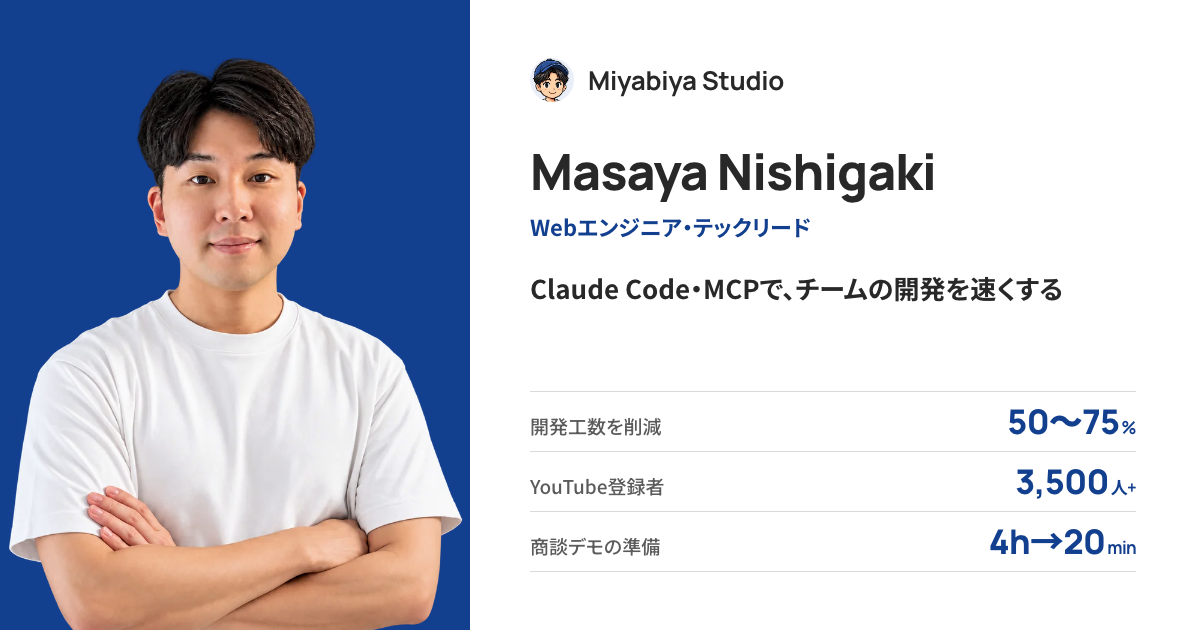
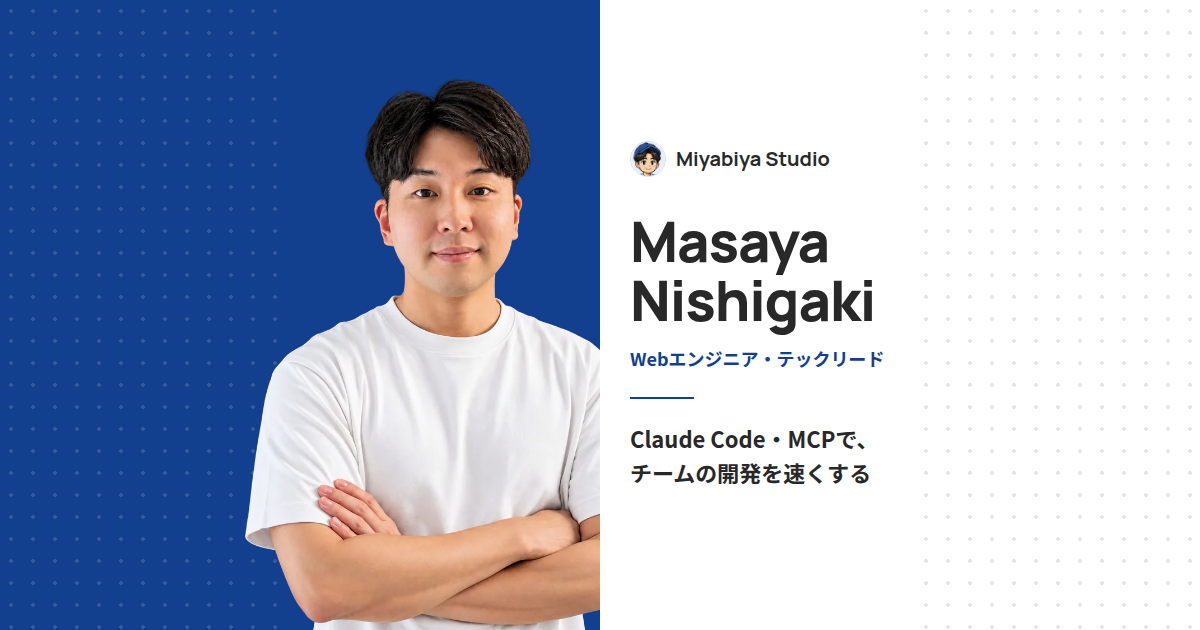
Keep the studio.msyn.me link preview readable at every crop
Link previews crop og-profile.png to their own frame (1.91:1, about 1.5:1
in narrow cards, square in compact ones), which cut the name and figures
on the right. Redraw the card-style image with the split at the center and
all text inside the centered 630x630 area, generate it from
canvas/v3/build_og.py with a check that fails when text leaves that area,
and publish it under a content-hashed name so cached previews refresh.

Claude-Session: https://claude.ai/code/session_015XLHNVSnmWFEdGQFirpeex

diff --git a/profile-site-comp/canvas/v3/build_og.py b/profile-site-comp/canvas/v3/build_og.py
@@ -1,0 +1,163 @@
+#!/usr/bin/env python3
+"""リンクを共有したときのプレビュー画像 (site/og-profile.png, 1200×630) を生成する。
+
+  python3 canvas/v3/build_og.py
+
+プレビュー画像は、表示先の枠に合わせて中央から切り抜かれる。X・Facebook は 1.91:1、
+チャットやノートアプリの細いカードは 1.5:1 前後、小さいカードは正方形になる。そのため
+文字はすべて中央の 630×630 (正方形に切り抜かれても残る範囲) に収め、左右の端には背景だけを置く。
+生成時に文字の位置を測り、範囲からはみ出したら止める。比率ごとの見え方は
+output/og-profile-crops.png に保存する。
+
+Google Chrome か Chromium と Pillow を使う (見つからないときは CHROME にパスを指定する)。
+生成した PNG は Git に含めるので、npm run build ではこのスクリプトを実行しない。
+"""
+import base64
+import json
+import os
+from pathlib import Path
+import re
+import shutil
+import subprocess
+import tempfile
+
+from fontTools.ttLib import TTFont
+from PIL import Image, ImageDraw
+
+HERE = Path(__file__).resolve().parent
+ROOT = HERE.parents[1]
+OUTPUT = ROOT / 'site/og-profile.png'
+CROPS = ROOT / 'output/og-profile-crops.png'
+W, H = 1200, 630
+# 正方形に切り抜かれても余白が残るよう、左右は 24px、上下は 2.2:1 まで切り詰められても残る範囲。
+SAFE = ((W - H) // 2 + 24, 48, (W + H) // 2 - 24, H - 48)
+
+BRAND = 'Miyabiya Studio'
+NAME = ('Masaya', 'Nishigaki')
+ROLE = 'Webエンジニア・テックリード'
+TAGLINE = ('Claude Code・MCPで、', 'チームの開発を速くする')
+JP_FONT = HERE / 'site-assets/studio-jp.woff2'
+SANS_FONT = HERE / 'site-assets/studio-sans.woff2'
+
+
+def data_uri(path, mime):
+    return f'data:{mime};base64,' + base64.b64encode(path.read_bytes()).decode()
+
+
+def page():
+    return f'''<!doctype html><html lang="ja"><head><meta charset="utf-8"><style>
+@font-face{{font-family:"Studio Sans";src:url({data_uri(SANS_FONT, 'font/woff2')}) format("woff2");font-weight:200 800}}
+@font-face{{font-family:"Studio JP";src:url({data_uri(JP_FONT, 'font/woff2')}) format("woff2");font-weight:100 900}}
+*{{margin:0;padding:0;box-sizing:border-box}}
+html,body{{width:{W}px;height:{H}px;overflow:hidden}}
+body{{position:relative;font-family:"Studio Sans","Studio JP",sans-serif;-webkit-font-smoothing:antialiased;color:#282828;
+  background:linear-gradient(90deg,#133F8F 0 600px,#fff 600px)}}
+.edge{{position:absolute;top:0;width:{(W - H) // 2}px;height:{H}px;background-size:22px 22px}}
+.edge-left{{left:0;background-image:radial-gradient(rgba(255,255,255,.14) 1.6px,transparent 1.8px)}}
+.edge-right{{right:0;background-image:radial-gradient(#E3E6EC 1.6px,transparent 1.8px)}}
+.photo{{position:absolute;left:0;top:0;width:600px;height:{H}px;overflow:hidden}}
+.photo img{{position:absolute;width:448px;left:232px;top:72px}}
+.card{{position:absolute;left:630px;top:0;width:{SAFE[2] - 630}px;height:{H}px;display:flex;flex-direction:column;justify-content:center;align-items:flex-start}}
+.brand{{display:flex;align-items:center;gap:10px;font-weight:700;font-size:20px;margin-bottom:34px}}
+.brand img{{width:36px;height:36px;border-radius:50%;border:1px solid #DDE2E6}}
+h1{{font-weight:800;font-size:56px;line-height:1.06;letter-spacing:-.02em}}
+.role{{font-family:"Studio JP";font-weight:700;font-size:18px;color:#133F8F;margin-top:16px}}
+.rule{{width:64px;height:2px;background:#133F8F;margin:26px 0 22px}}
+.tagline{{font-family:"Studio JP";font-weight:700;font-size:22px;line-height:1.55}}
+</style></head><body>
+<div class="edge edge-left"></div><div class="edge edge-right"></div>
+<div class="photo"><img src="{data_uri(ROOT / 'site/hero-photo.webp', 'image/webp')}" alt=""></div>
+<div class="card">
+<div class="brand" data-measure="brand"><img src="{data_uri(ROOT / 'canvas/assets/avatar.webp', 'image/webp')}" alt="">{BRAND}</div>
+<h1 data-measure="name">{'<br>'.join(NAME)}</h1>
+<div class="role" data-measure="role">{ROLE}</div>
+<div class="rule"></div>
+<div class="tagline" data-measure="tagline">{'<br>'.join(TAGLINE)}</div>
+</div>
+<script>
+document.fonts.ready.then(() => {{
+  const boxes = {{}};
+  for (const el of document.querySelectorAll('[data-measure]')) {{
+    const range = document.createRange();
+    range.selectNodeContents(el);
+    const r = range.getBoundingClientRect();
+    boxes[el.dataset.measure] = [r.left, r.top, r.right, r.bottom].map(Math.round);
+  }}
+  const fonts = [...document.fonts].map(f => f.family + ':' + f.status);
+  document.body.dataset.layout = JSON.stringify({{boxes, fonts, viewport: [innerWidth, innerHeight]}});
+}});
+</script>
+</body></html>'''
+
+
+def chrome():
+    for candidate in (os.environ.get('CHROME'), '/Applications/Google Chrome.app/Contents/MacOS/Google Chrome',
+                      shutil.which('google-chrome'), shutil.which('chromium'), shutil.which('chromium-browser'),
+                      '/opt/pw-browsers/chromium'):
+        if candidate and Path(candidate).exists():
+            return candidate
+    raise SystemExit('Chrome が見つかりません。CHROME にパスを指定してください。')
+
+
+def run_chrome(html_path, *args):
+    # 新しいヘッドレスモードは表示領域がウィンドウより少し低くなるので、縦に余裕を取って後で切り出す。
+    command = [chrome(), '--headless=new', '--disable-gpu', '--hide-scrollbars', '--force-device-scale-factor=1',
+               f'--window-size={W},{H + 370}', '--virtual-time-budget=5000', *args, html_path.as_uri()]
+    if hasattr(os, 'geteuid') and os.geteuid() == 0:
+        command.insert(1, '--no-sandbox')
+    return subprocess.run(command, check=True, capture_output=True, text=True).stdout
+
+
+def check_layout(dom):
+    found = re.search(r'data-layout="([^"]*)"', dom)
+    assert found, 'レイアウトを測れませんでした (フォントの読み込みを待てていません)'
+    layout = json.loads(found.group(1).replace('&quot;', '"').replace('&amp;', '&'))
+    assert layout['viewport'][0] == W and layout['viewport'][1] >= H, layout['viewport']
+    assert all(f.endswith(':loaded') for f in layout['fonts']), layout['fonts']
+    left, top, right, bottom = SAFE
+    for name, (x0, y0, x1, y1) in layout['boxes'].items():
+        assert left <= x0 and x1 <= right and top <= y0 and y1 <= bottom, \
+            f'{name} が中央の安全範囲 {SAFE} からはみ出しています: {(x0, y0, x1, y1)}'
+    return layout['boxes']
+
+
+def crop_sheet(image):
+    """比率ごとに中央から切り抜いた見本を並べる。"""
+    ratios = (('2.2:1', 2.2), ('1.91:1 X / Facebook', 1.91), ('1.5:1', 1.5), ('1.2:1', 1.2), ('1:1', 1.0))
+    height, gap = 240, 24
+    tiles = []
+    for label, ratio in ratios:
+        cw, ch = (W, round(W / ratio)) if ratio >= W / H else (round(H * ratio), H)
+        x0, y0 = (W - cw) // 2, (H - ch) // 2
+        tiles.append((label, image.crop((x0, y0, x0 + cw, y0 + ch)).resize((round(height * ratio), height), Image.LANCZOS)))
+    sheet = Image.new('RGB', (sum(t.width for _, t in tiles) + gap * (len(tiles) + 1), height + 64), '#22272E')
+    draw = ImageDraw.Draw(sheet)
+    x = gap
+    for label, tile in tiles:
+        sheet.paste(tile, (x, 44))
+        draw.text((x, 18), label, fill='#FFFFFF')
+        x += tile.width + gap
+    return sheet
+
+
+def main():
+    covered = TTFont(JP_FONT).getBestCmap()
+    missing = sorted({c for c in ROLE + ''.join(TAGLINE) if ord(c) > 0x2000 and ord(c) not in covered})
+    assert not missing, f'日本語フォントに無い文字があります: {"".join(missing)}'
+    with tempfile.TemporaryDirectory() as tmp:
+        html_path = Path(tmp) / 'og.html'
+        html_path.write_text(page(), encoding='utf-8')
+        boxes = check_layout(run_chrome(html_path, '--dump-dom'))
+        shot = Path(tmp) / 'shot.png'
+        run_chrome(html_path, f'--screenshot={shot}')
+        image = Image.open(shot).convert('RGB').crop((0, 0, W, H))
+    image.save(OUTPUT, optimize=True)
+    CROPS.parent.mkdir(exist_ok=True)
+    crop_sheet(image).save(CROPS)
+    for name, box in boxes.items():
+        print(f'{name:8} {box}')
+    print('Saved', OUTPUT.relative_to(ROOT), 'and', CROPS.relative_to(ROOT))
+
+
+if __name__ == '__main__':
+    main()

diff --git a/profile-site-comp/canvas/v3/build_public.py b/profile-site-comp/canvas/v3/build_public.py
@@ -27,6 +27,13 @@ for asset in (HERE / 'preview').glob('*.webp'):
     shutil.copyfile(asset, OUT / asset.name)
 for name in ('favicon.svg', 'apple-touch-icon.png', 'og-pricing.png', 'og-profile.png'):
     shutil.copyfile(HERE.parent.parent / 'site' / name, OUT / name)
+# Link previews cache the image by its URL, so a redrawn og-profile.png (build_og.py) gets a new address.
+# og-profile.png itself stays published for previews that already point at it.
+for stale in OUT.glob('og-profile.*.png'):
+    stale.unlink()
+og_bytes = (OUT / 'og-profile.png').read_bytes()
+OG_IMAGE = 'og-profile.' + hashlib.sha256(og_bytes).hexdigest()[:12] + '.png'
+(OUT / OG_IMAGE).write_bytes(og_bytes)
 
 def public_body(payload):
     for key, filename in design['files'].items():
@@ -73,7 +80,7 @@ def document(key, body):
 <link rel="canonical" href="{BASE}{route}"><meta property="og:type" content="website">
 <meta property="og:site_name" content="Miyabiya Studio"><meta property="og:locale" content="ja_JP">
 <meta property="og:title" content="{html.escape(title, quote=True)}"><meta property="og:description" content="{html.escape(desc, quote=True)}">
-<meta property="og:url" content="{BASE}{route}"><meta property="og:image" content="{BASE}/og-profile.png">
+<meta property="og:url" content="{BASE}{route}"><meta property="og:image" content="{BASE}/{OG_IMAGE}">
 <meta property="og:image:width" content="1200"><meta property="og:image:height" content="630"><meta property="og:image:alt" content="Masaya Nishigaki Webエンジニア・テックリード">
 <meta name="twitter:card" content="summary_large_image"><meta name="theme-color" content="#133F8F">
 <link rel="icon" href="/avatar.webp" type="image/webp"><link rel="apple-touch-icon" href="/apple-touch-icon.png">

diff --git a/profile-site-comp/TODO.md b/profile-site-comp/TODO.md
@@ -1,6 +1,7 @@
 # Miyabiya Studio の進捗
 
 ## 現在地
+- 2026-10-02（未公開）：OGP画像を、どの比率で切り抜かれても欠けない配置に作り直しました。名刺型（左が青地の写真、右が白地の文字）のまま分割線を中央に寄せ、文字をすべて中央の630×630に収めています。1.5:1や正方形のカードで右側の数字や名前が切れていたため、切り抜かれると読めない3項目の数字は外しました。生成は `canvas/v3/build_og.py`（文字のはみ出しを検査、比率別の見本は `output/og-profile-crops.png`）。公開時は `og-profile.<ハッシュ>.png` を指すので、各サービスのキャッシュも切り替わります。25テスト、9ページの検査を確認済み。`npm run deploy` で公開が必要です。
 - 2026-09-25：白基調ヒーローと背景透過の3D書斎、Cloudflare Worker 経由の問い合わせフォーム、GA4、最新動画、名称統一、最終レイアウト点検の修正（プロフィールの余白・幅揃え、1024pxヘッダー、語中改行、タブレットの動画列、登壇カード、外部リンクの別タブ）をまとめて公開しました。両ドメインで全ページ200、映像・GA4・フォームの反映を確認済み。レイアウト点検は `output/hero-copy-directions/proposals/_lc.html` で再実行できます。残り：iPhone Safari での透過映像の実機確認。
 - 2026-09-25（未公開）：ヒーローを白基調にし、Blender の書斎を背景透過・台座なし・寄りの構図で描き直して右側に配置（48秒の昼夜ループ。Chrome等は `study-alpha.webm`、Safari/iPhone は `study-alpha.hevc.mp4`、モニター位置は `track-alpha.json`）。作り直し手順は `home-3d/diorama/blender/render_transparent.sh` → `encode_alpha.sh`。問い合わせフォームは Cloudflare Worker（`contact-worker/`、公開済み・テスト送信成功）へ送信する形にし、必須/任意バッジを追加。
 - 2026-09-25（未公開・まとめて公開予定）：/services/ を「事業内容」に改名し「Webサービス開発」に統一／メンバーシップを全体メニューとフッターから削除／問い合わせに種別フォーム（メール作成方式）と「通常2営業日以内に返信」／PCヘッダーに事業内容・技術登壇／実績画像を800px WebP化／JSON-LD拡充／GA4（G-0HHRPGZRZB）とイベント計測／トップに最新の本編3本（ビルド時に自動取得、`latest-videos.json`・`latest-thumbs/`）／ビルド時に日本語フォントの不足文字を自動で追加して再ビルド。ヒーローの白基調化は案の選択待ち（`output/white-hero-directions/`）。

diff --git a/profile-site-comp/README.md b/profile-site-comp/README.md
@@ -21,6 +21,7 @@
 | 公開ページの生成・メタ情報・配信設定 | `canvas/v3/build_public.py`、`wrangler.toml` |
 | YouTubeの登録者数・代表動画の再生数 (ビルド時に自動取得) | `canvas/v3/youtube_stats.py`、前回の取得結果は `canvas/v3/youtube-stats.json` |
 | 画像素材 | `canvas/assets/`、`site/` 内の画像 |
+| リンクを共有したときのプレビュー画像 (OGP) | `canvas/v3/build_og.py` で `site/og-profile.png` を生成 |
 
 料金の根拠は[料金設定の根拠](docs/pricing/price-basis.md)にまとめています。元の料金表は `canvas/v3/pricing-proposal.json` に保存しています。
 
@@ -49,6 +50,16 @@ npm run preview
 全ページのレビューは `python3 canvas/v3/build_review.py` で生成します。`python3 canvas/v3/preview_review.py` でサーバーを起動し、`http://127.0.0.1:8776/review.html` で確認できます。更新後は同じタブを再読み込みしてください。
 
 `python3 canvas/v3/validate_home.py` は、全ページのリンクと見出し、元の本文と料金の維持を検査します。レビュー用HTMLは公開用の生成先に含まれません。
+
+## OGP画像 (リンクのプレビュー画像)
+
+プレビュー画像は、表示先の枠に合わせて中央から切り抜かれます (X・Facebook は 1.91:1、細いカードは 1.5:1 前後、小さいカードは正方形)。そのため、文字は中央の 630×630 に収め、左右の端には背景だけを置きます。文言や配置を変えたら、次のコマンドで作り直します。
+
+```sh
+python3 canvas/v3/build_og.py
+```
+
+文字が中央の範囲からはみ出すと、生成を止めます。比率ごとの見え方は `output/og-profile-crops.png` で確認できます。Google Chrome が必要です (見つからないときは `CHROME` にパスを指定)。ビルド時は画像の内容から `og-profile.<ハッシュ>.png` を作って `og:image` に指定するため、画像を変えると各サービスのキャッシュも新しい画像に切り替わります。
 
 ## 公開
 
